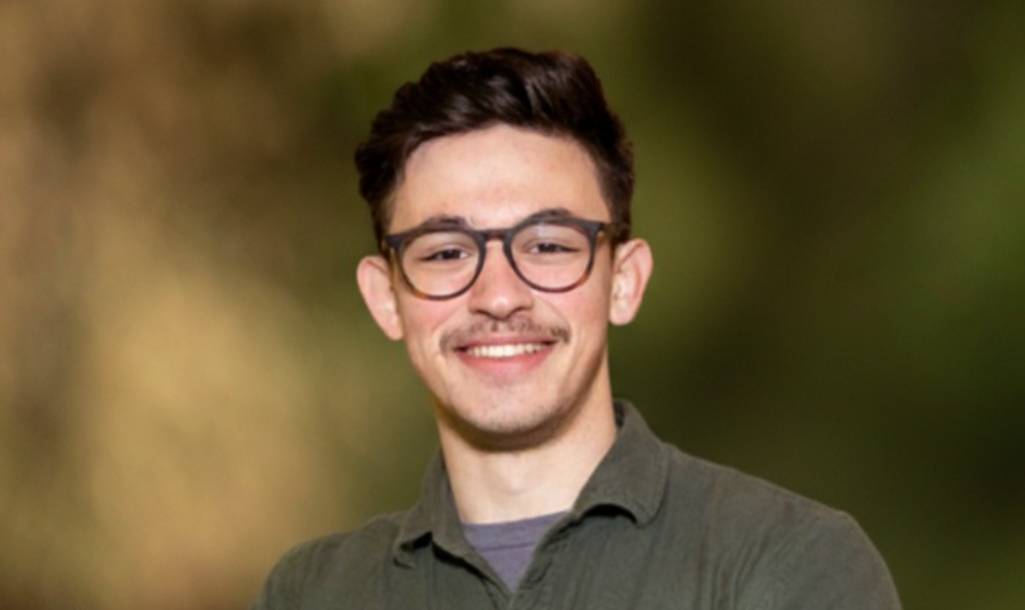
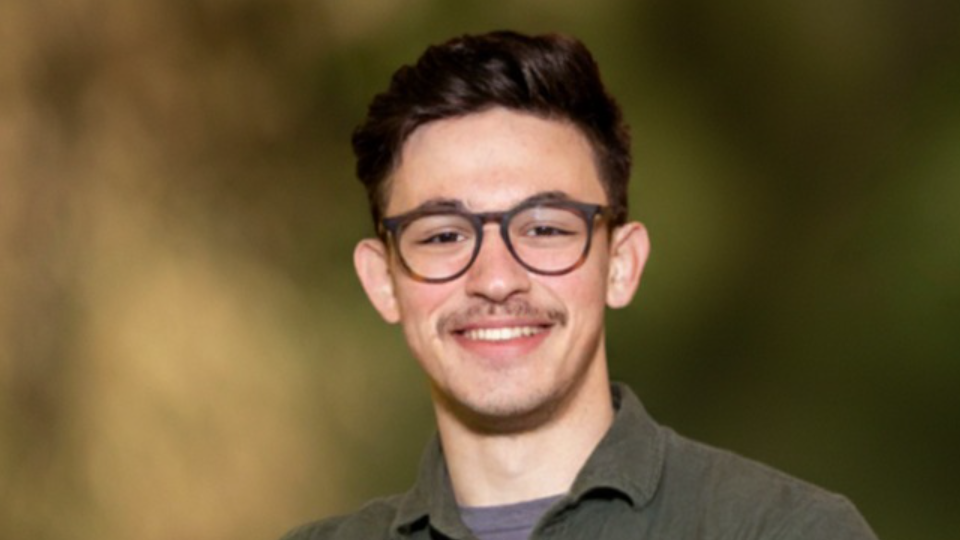
update people images

diff --git a/img_script.m b/img_script.m
@@ -1,7 +1,7 @@
 
 % source image should be aspect ratio 1920 wide x 1080 tall
 
-name = 'Zhiwen';
+name = 'Fabiola';
 type = 'people';
 % name = 'WRF';
 % type = 'posts';
